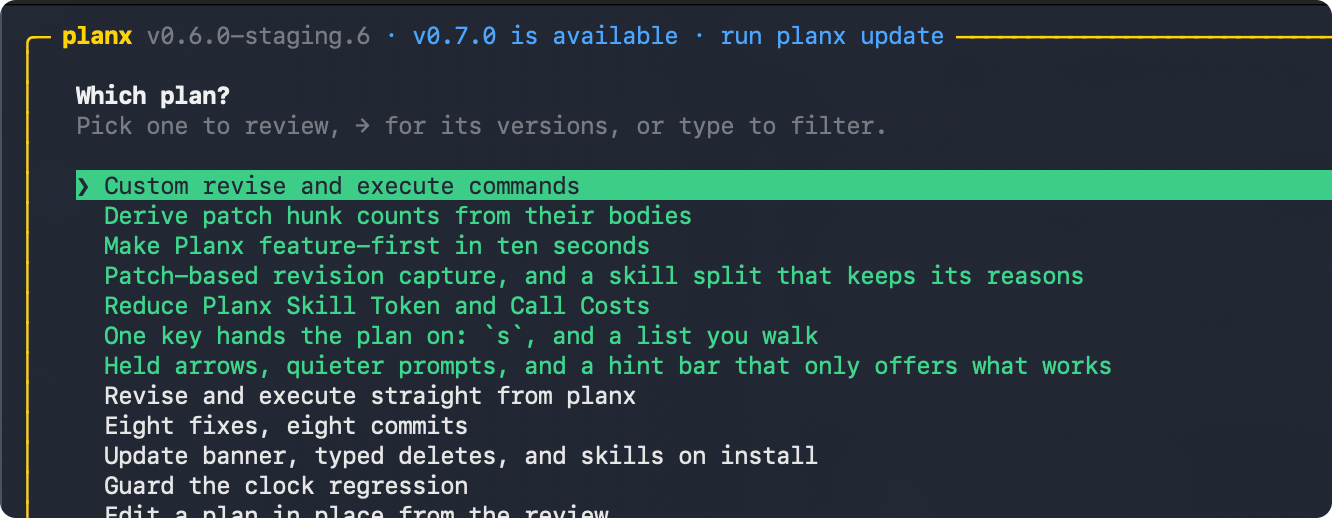
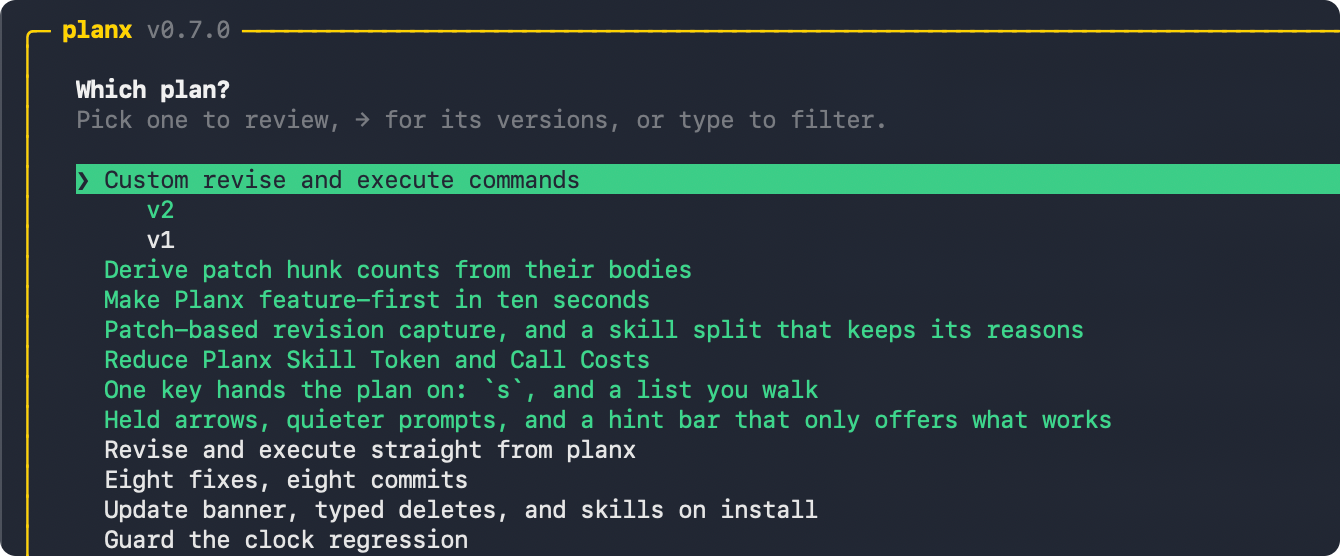
Update README.md

Changed region(s): [[0.0308, 0.1236, 1.0, 1.0], [0.0, 0.0, 1.0, 0.0927]]

diff --git a/README.md b/README.md
@@ -75,33 +75,30 @@ version.
 
 ![PlanX collapse](assets/planx-collapse.png)
 
-## Use the agent you want
+### Revise without losing context
 
-Codex and Claude Code get first-class installation and session-aware hand-offs.
 PlanX records the session that created a version, so revision can return to the
 agent that already researched the repository. Execution opens from the reviewed
 version in a fresh session.
 
-You can also configure any command that accepts a trailing prompt. That makes
-cross-agent workflows ordinary: one agent can plan, another can revise, and a
-third can execute. The receiving agent only needs access to the PlanX skill and
-CLI.
+![PlanX session-aware revision and execution](assets/planx-custom.png)
 
-### Agent setup and updates
+### Use the agent you want
 
-PlanX requires Node.js 20.19 or newer. The npm installation adds the `planx`
-CLI and writes the PlanX skill into agent directories that already exist.
-
-If you install an agent later, refresh its skills:
+You can also configure any agent command that accepts a trailing prompt. That makes
+cross-agent workflows simple: one agent can plan, another can revise, and a
+third can execute. 
 
 ```bash
-planx add-skills
-planx add-skills --agent codex
-planx add-skills --agent claude
+planx defaults
 ```
 
-Start a new agent session after installing or refreshing the skill. Set
-`PLANX_NO_POSTINSTALL=1` before npm installation to skip automatic skill setup.
+The receiving agent must have the
+PlanX skill installed.
+
+![PlanX custom-agent configuration](assets/planx-custom.png)
+
+## Other commands 
 
 Update PlanX and its installed skills with:
 
@@ -109,25 +106,15 @@ Update PlanX and its installed skills with:
 planx update
 ```
 
-## Configuration for other agents
-
-Open the defaults screen with:
+Add skills for all agents or individually
 
 ```bash
-planx defaults
+planx add-skills
+planx add-skills --agent codex
+planx add-skills --agent claude
 ```
 
-Custom revise and execute commands let you use PlanX with custom agent CLIs:
-
-```bash
-planx defaults --revise "custom-agent exec --arg"
-planx defaults --execute "custom-agent --some-arg"
-```
-
-The command must accept a trailing prompt, and the receiving agent must have the
-PlanX skill installed.
-
-## Uninstall the best way to plan
+Uninstall the best way to plan:
 
 ```bash
 planx remove-skills
